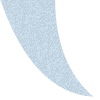
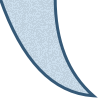
Updated speech panel styling

Changed region(s): [[0.0, 0.0, 0.99, 0.99]]

diff --git a/src/components/Panel/styles.scss b/src/components/Panel/styles.scss
@@ -28,11 +28,14 @@
 
   background-image: url('./Images/balloon-background.png');
   background-size: 100% 100%;
+
   &.fact {
     z-index: 4;
-    background-image: url('./Images/fact-background.png');
-    background-size: 100% 100%;
+    background: none;
     max-width: 500px;
+
+    padding-top: 0px;
+    padding-bottom: 0px;
 
     * {
       font-family: 'Gaegu', sans-serif;
@@ -41,9 +44,26 @@
       line-height: 2rem;
     }
 
+    .factPanelTop {
+      height: 40px;
+      background: url('./Images/fact-background-top.png') no-repeat top center;
+      background-size: 100% 100%;
+    }
+
+    .factPanelMiddle {
+      background: url('./Images/fact-background-middle.png') no-repeat top center;
+      background-size: 100% 100%;
+    }
+
+    .factPanelBottom {
+      height: 140px;
+      background: url('./Images/fact-background-bottom.png') no-repeat top center;
+      background-size: 100% 100%;
+    }
+
     .stick {
       position: absolute;
-      top: calc(100% - 3px);
+      top: calc(100% - 107px);
       left: 50%;
       width: 100px;
       height: 100px;
@@ -52,12 +72,12 @@
 
     .stickRight {
       background: url('./Images/stick-right.png') no-repeat top left;
-      left: 60%;
+      left: 80%;
     }
 
     .stickLeft {
       background: url('./Images/stick-left.png') no-repeat top left;
-      left: 40%;
+      left: 20%;
     }
   }
 
@@ -94,7 +114,7 @@
   }
 }
 
-@media only screen and (max-device-width: 667px) and (-webkit-min-device-pixel-ratio: 2) {
+@media only screen and (max-device-width: 667px) {
   .base {
     margin-right: auto !important;
     margin-left: auto !important;
@@ -102,7 +122,7 @@
     padding-top: 8%;
     padding-bottom: 8%;
 
-    width: 95% !important;
+    width: 92% !important;
 
     p {
       font-size: 1.3rem;
@@ -113,17 +133,21 @@
 
     &.fact {
       .stick {
-        width: 50px;
-        height: 50px;
-        background-size: 50px 50px;
+        width: 75px;
+        height: 75px;
+        background-size: 75px 75px;
       }
 
       .stickLeft {
-        left: 80%;
+        background-image: url('./Images/stick-right.png') !important;
+        left: 18%;
+        top: calc(100% - 106px);
       }
 
       .stickRight {
-        left: 20%;
+        background-image: url('./Images/stick-left.png') !important;
+        left: 82%;
+        top: calc(100% - 108px);
       }
     }
   }

diff --git a/src/components/Panel/index.js b/src/components/Panel/index.js
@@ -55,11 +55,10 @@ class Panel extends React.Component {
       .filter(c => c)
       .join(' ');
 
-    let elephant;
-    let src;
-    let stick;
-    let elephantBg;
     if (config.fact && config.pageNumber > 2) {
+      let src;
+      let stick;
+
       let elephantStyle = {
         maxWidth: 'initial',
         width: this.isLandscape ? '40%' : '90%',
@@ -102,18 +101,27 @@ class Panel extends React.Component {
           break;
       }
 
-      elephant = <img src={src} style={elephantStyle} />;
-      elephantBg = <img src={Images.ELEPHANT_BG} style={bgStyle} />;
+      return (
+        <div className={styles.wrapper} style={{ marginBottom: config.fact && config.pageNumber > 2 ? '50vh' : '0' }}>
+          <div id={this.props.id} className={`${className} ${config.fact ? styles.fact : ''}`}>
+            <div className={styles.factPanelTop} />
+            <div className={styles.factPanelMiddle}>
+              <div ref={el => (this.base = el)} />
+            </div>
+            <div className={styles.factPanelBottom} />
+            <div className={`${styles.stick} ${styles[stick]}`} />
+          </div>
+          <img src={Images.ELEPHANT_BG} style={bgStyle} />
+          <img src={src} style={elephantStyle} />
+        </div>
+      );
     }
 
     return (
-      <div className={styles.wrapper} style={{ marginBottom: config.fact && config.pageNumber > 2 ? '50vh' : '0' }}>
-        <div id={this.props.id} className={`${className} ${config.fact ? styles.fact : ''}`}>
+      <div className={styles.wrapper}>
+        <div id={this.props.id} className={className}>
           <div ref={el => (this.base = el)} />
-          {config.fact && <div className={`${styles.stick} ${styles[stick]}`} />}
         </div>
-        {elephantBg}
-        {elephant}
       </div>
     );
   }

diff --git a/src/components/Panel/images.js b/src/components/Panel/images.js
@@ -1,4 +1,5 @@
 module.exports = {
+  PANEL_SHADOW: require('./Images/balloon-shadow.png'),
   ELEPHANT_BG: require('./Images/elephant-bg.png'),
   ELEPHANT_1: require('./Images/elephant1.png'),
   ELEPHANT_2: require('./Images/elephant2.png'),

diff --git a/src/components/Book/index.js b/src/components/Book/index.js
@@ -674,6 +674,10 @@ class Book extends React.Component {
     );
   }
 
+  _end() {
+    return <div>the end...</div>;
+  }
+
   render() {
     const { pageNumber } = this.props;
 
